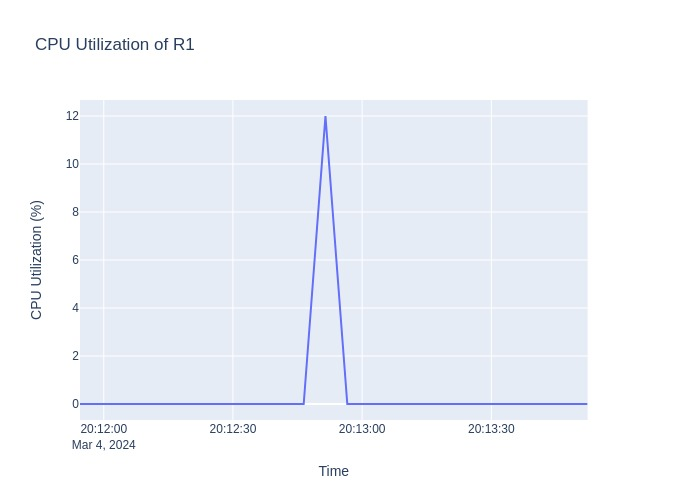
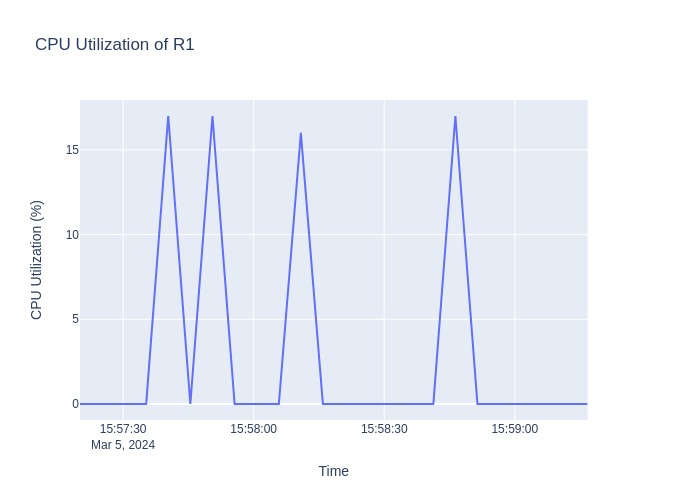
Adding ssh

diff --git a/lab5/generate_traffic.py b/lab5/generate_traffic.py
@@ -1,4 +1,6 @@
 from scapy.all import *
+import time
+import sys
 
 def generate_syn_packets(destination_ip, num_packets):
     syn_packets = []
@@ -8,6 +10,7 @@ def generate_syn_packets(destination_ip, num_packets):
     send(syn_packets)
 
 destination_ip = '198.51.50.1'
-num_packets = 1000 
+num_packets = 1500 
 
 generate_syn_packets(destination_ip, num_packets)
+time.sleep(5)

diff --git a/configuressh.py b/configuressh.py
@@ -1,0 +1,15 @@
+#!/usr/bin/python3
+
+
+def configure_ssh():
+    ip domain name cub.com
+    crypto key generate rsa modulus 2048
+    ip ssh version 2
+    username snir8112 password 0 roomtoor
+    username snir8112 privilege 15
+    aaa new-model
+    line vty 0 15
+    password 0 roomtoor
+    transport input all 
+    transport output all
+    privilege level 15
